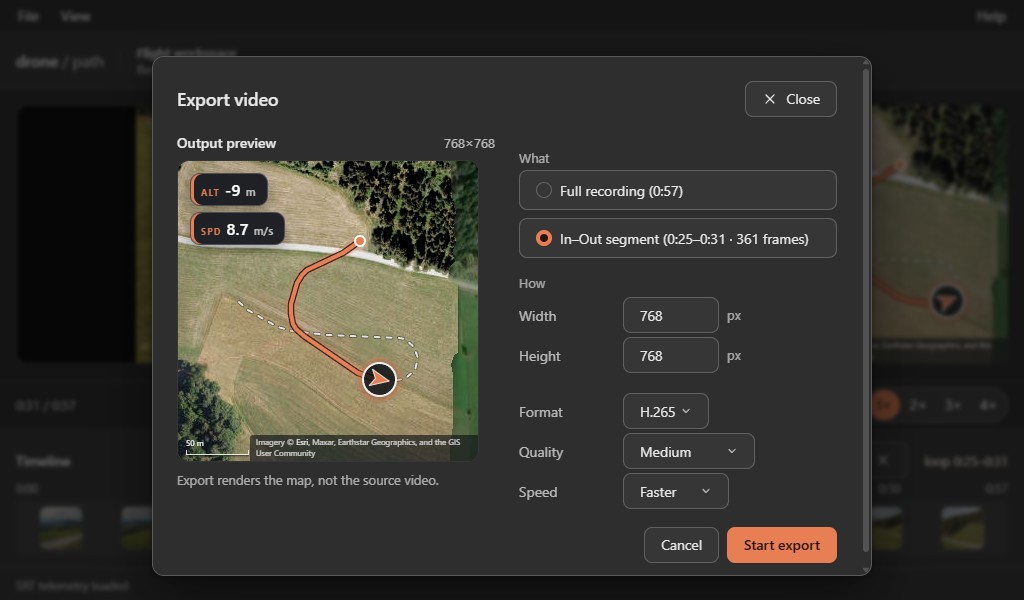
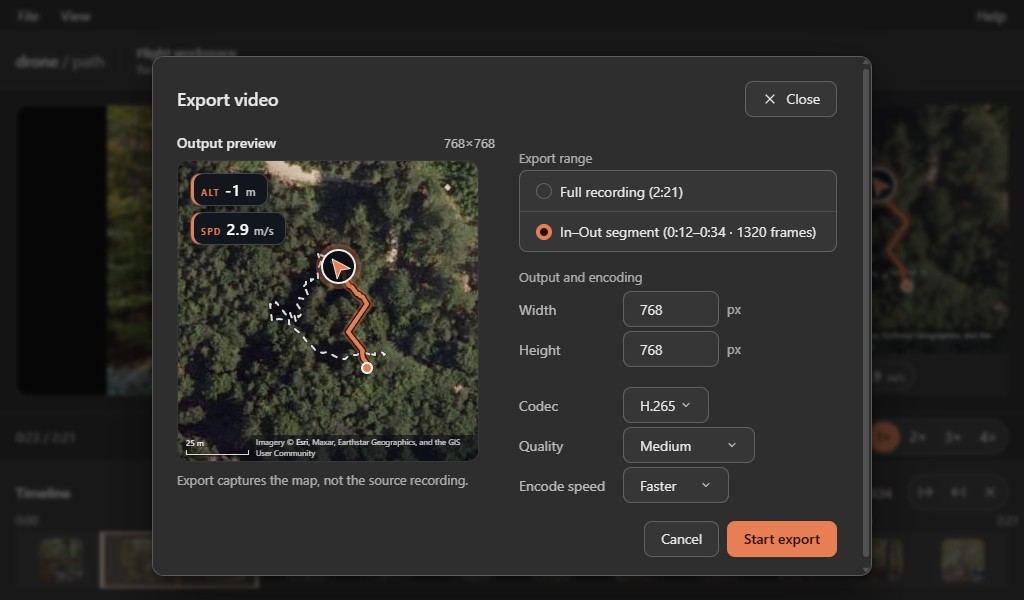
release: v0.11.0

diff --git a/CHANGELOG.md b/CHANGELOG.md
@@ -1,5 +1,58 @@
 # drone-path
 
+## 0.11.0
+
+- **New:** Flight track files: `--track-out <file>` writes the decoded
+  flight track in the format the file extension picks — GPX (`.gpx`),
+  GeoJSON (`.geojson`), KML/KMZ (`.kml`/`.kmz`) — or the existing
+  telemetry JSON document (`.json`, unchanged bytes). Vertices sit at
+  decoded GPS fixes with telemetry gaps breaking the line, altitude is
+  the absolute/GPS altitude in meters above mean sea level, and times
+  appear only where a recording carries trustworthy UTC — none does
+  today (the CAM-meta device timestamp counts since power-up), so KML
+  exports plain line segments instead of a timed flythrough. The
+  desktop **Export telemetry…** dialog offers the same five formats and
+  honors the In–Out range; for the same recording and range the app and
+  the CLI write byte-identical files. `--telemetry-json <file>` is a
+  deprecated alias of `--track-out <file>.json` — same output, warns on
+  use, removed in a future version — and mixing the two spellings in
+  one run is an error. A frame range of a single frame is now valid
+  everywhere ranges are accepted.
+- **New:** The timeline shows a lone in or out point as a half-open
+  In–Out segment — the in point runs to the end of the recording, the
+  out point from its start — and the readout names the same passage.
+  Playback wrap and both exports honor a lone point, setting a point
+  past the other replaces it, and the readout announces point changes
+  to screen readers.
+- **New:** The app's copy is unified and the dialogs are polished: the
+  marked range is the In–Out segment with "Set in point" / "Set out
+  point" controls and an `in 0:12 · out 0:34` readout, the export flow
+  says "export" throughout with codec and encode-speed labels, every
+  failure reads as a sentence with a next step (raw text under
+  "Technical details"), and a failed update restart is reported. Each
+  dialog dismisses through its header ✕ alone, the export-done dialog
+  leads with "Export finished." and one accent primary (**Reveal in
+  folder**), output paths wrap with a full-path tooltip, and export and
+  telemetry phase text is announced in a live region and keeps keyboard
+  focus through phase changes.
+- **New:** Accessibility hardening for the menu bar and dialogs: AltGr
+  characters type normally in every field, Left/Right move between the
+  menu labels with disabled rows announcing themselves, Tab stays
+  inside dialogs and the Help overlay, and the timeline scrubber
+  announces times instead of raw frame numbers.
+- **New:** The transport and loop controls are compact and stable: the
+  Play/Pause button is icon-only with a tooltip and accessible name,
+  the in/out-point buttons form one group beside a fixed readout slot,
+  and toggling playback or marking points no longer shifts neighboring
+  controls. The ALT/SPD readouts sit in a strip along the map card's
+  bottom edge, the Map appearance popover docks left of the map card
+  and opens from **File → Map appearance…**, the empty workspace drops
+  its tooling hint and status footer, the header hides the duration
+  until a recording loads, and the map card shows "Preparing map…"
+  while its tiles load.
+- **Internal:** Code consolidation and dead-export cleanup from a
+  refactoring pass; no behavior changes.
+
 ## 0.10.0
 
 - **New:** Telemetry now comes from the embedded CAM meta (DVTM) stream
